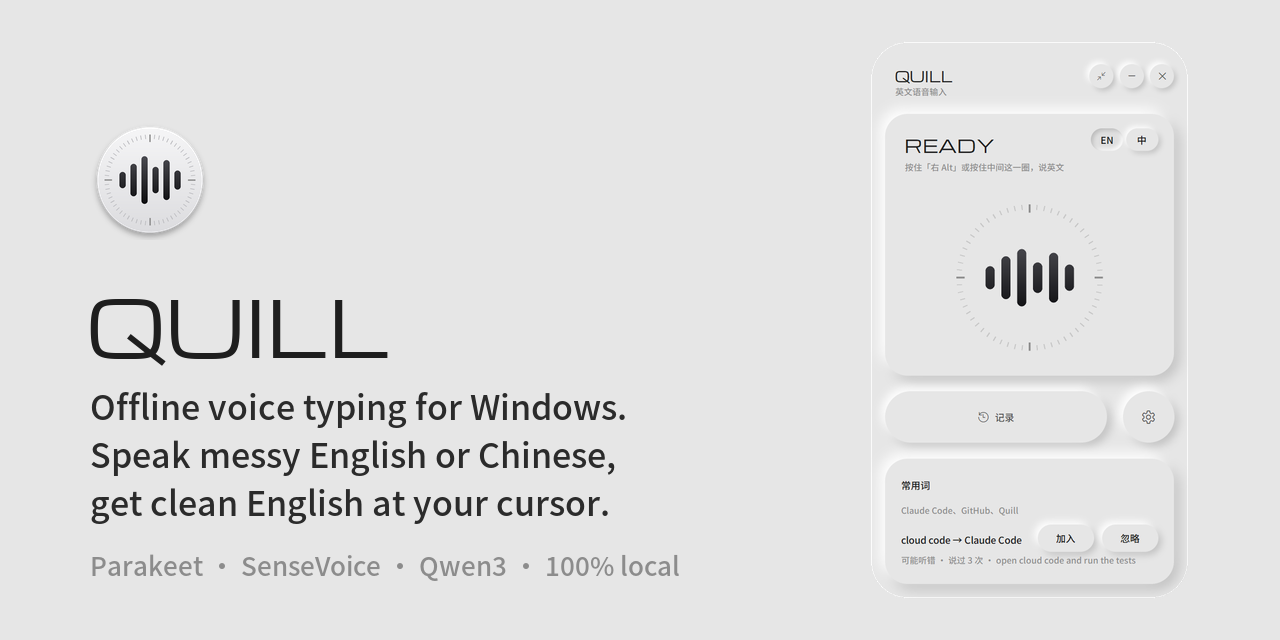
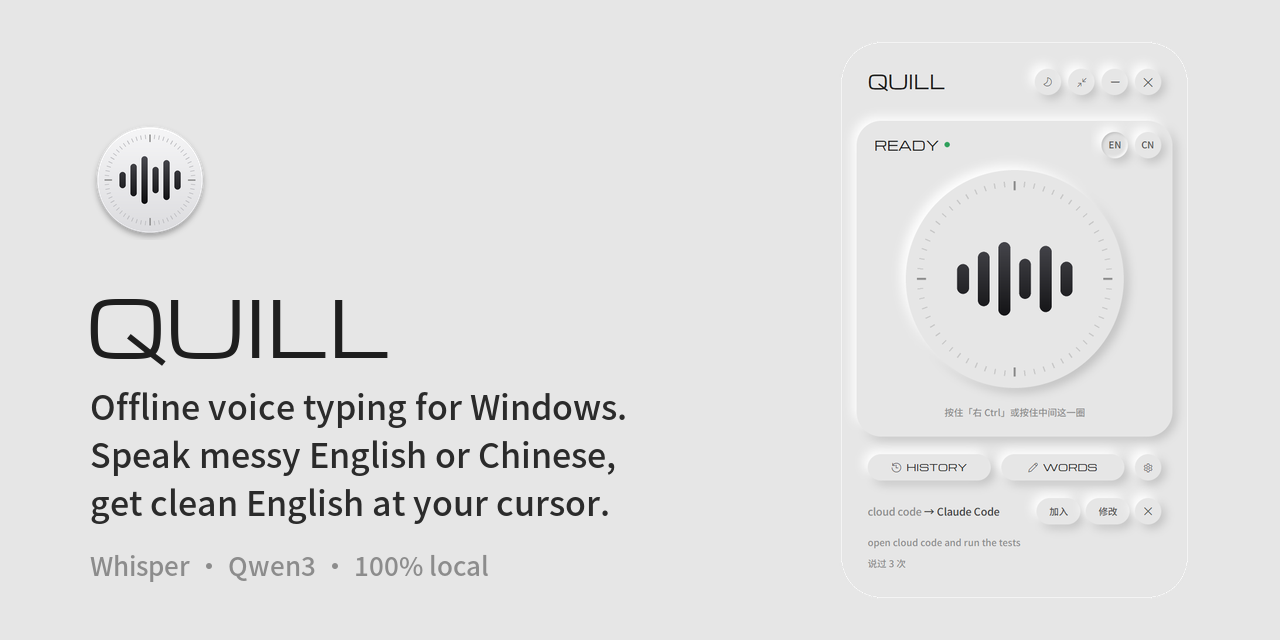
docs: regenerate screenshots and demo GIF (Right Ctrl, theme toggle, Whisper)

diff --git a/make_demo.py b/make_demo.py
@@ -1,6 +1,6 @@
 """生成 README 用的演示图：.venv\\Scripts\\python.exe make_demo.py
 用 Windows 语音合成说两句（英文结巴 + 中文改口），按实时速度喂给 Quill（不用麦克风、不真的粘贴、不写 history），
-每 0.1 秒记一帧真实的底部浮窗，拼上一个假的输入框和「按住右 Alt」提示 → docs/demo.gif；再截主窗口 → docs/main.png。
+每 0.1 秒记一帧真实的底部浮窗，拼上一个假的输入框和「按住右 Ctrl」提示 → docs/demo.gif；再截主窗口 → docs/main.png。
 要先关掉正在运行的 Quill（Stop-Process -Force -Id (Get-CimInstance Win32_Process -Filter "Name='pythonw.exe'" | ? CommandLine -match 'voice-input').ProcessId）。"""
 import ctypes, importlib.machinery, importlib.util, subprocess, sys, threading, time, wave
 import tkinter as tk
@@ -38,7 +38,7 @@ def ulw(h, img, x, y): orig(h, img, x, y); latest[0] = img.copy()
 m.ulw = ulw
 m.Overlay.grab_backdrop = lambda self, box: Image.new('RGBA', (box[2] - box[0], box[3] - box[1]), (238, 238, 240, 255))  # 玻璃后面用固定底色，不截真实屏幕
 audio = {lang: tts(lang, text, HERE / f'_demo_{lang}.wav') for lang, text in LINES}
-m.cfg.update(lang='en', hotkey=0xA5, zh_out='en')  # 演示用默认快捷键右 Alt
+m.cfg.update(lang='en', hotkey=0xA3, zh_out='en', theme='light')  # 演示用默认快捷键右 Ctrl；固定浅色，不跟系统
 app = m.App(root); root.deiconify()
 for t in (m.fix_worker, m.eng.load): threading.Thread(target=t, daemon=True).start()
 
@@ -89,7 +89,7 @@ def save_gif(out, path, r=28):
     gif[0].save(path, save_all=True, append_images=gif[1:], duration=100, loop=0, optimize=True, transparency=127)
 
 def build():
-    """拼 GIF：上面一个输入框（凸起卡片），中间「按住右 Alt」，下面是真实的底部浮窗。坐标按 100% 写，乘 S。"""
+    """拼 GIF：上面一个输入框（凸起卡片），中间「按住右 Ctrl」，下面是真实的底部浮窗。坐标按 100% 写，乘 S。"""
     ov = [f for f, *_ in frames if f is not None]
     oh = max(f.height for f in ov)
     W, top = 760, 262; H = top + oh / S + 8
@@ -108,7 +108,7 @@ def build():
             cy = (y - 28 if lines else 78) * S
             d.line((cx, cy + 3 * S, cx, cy + 22 * S), fill=m.INK, width=max(1, round(1.5 * S)))
         (m.inset if held else m.raised)(im, 40, 202, 130, 38, 19, d=4 if held else 5)
-        d.text((105 * S, 221 * S), 'Right Alt', font=fk, fill=m.INK if held else '#555555', anchor='mm')
+        d.text((105 * S, 221 * S), 'Right Ctrl', font=fk, fill=m.INK if held else '#555555', anchor='mm')
         d.text((186 * S, 221 * S), ('holding · speak ' + ('Chinese' if lang == 'zh' else 'English')) if held else 'hold to talk',
                font=fl, fill=m.SUB, anchor='lm')
         d.text((720 * S, 221 * S), 'input: ' + ('中文' if lang == 'zh' else 'English'), font=fl, fill=m.SUB, anchor='rm')

diff --git a/tools/make_social.py b/tools/make_social.py
@@ -12,7 +12,7 @@ small = ImageFont.truetype(str(HERE / 'fonts' / 'NotoSansSC-Medium.otf'), 26)
 d.text((86, 270), 'QUILL', font=title, fill=(30, 30, 30))
 for i, t in enumerate(['Offline voice typing for Windows.', 'Speak messy English or Chinese,', 'get clean English at your cursor.']):
     d.text((90, 380 + i * 48), t, font=body, fill=(43, 43, 43))
-d.text((90, 545), 'Parakeet · SenseVoice · Qwen3 · 100% local', font=small, fill=(140, 140, 140))
+d.text((90, 545), 'Whisper · Qwen3 · 100% local', font=small, fill=(140, 140, 140))
 shot = Image.open(HERE / 'docs' / 'main.png').convert('RGBA'); s = 560 / shot.height
 shot = shot.resize((round(shot.width * s), 560), Image.LANCZOS); im.alpha_composite(shot, (W - shot.width - 90, 40))
 im.convert('RGB').save(HERE / 'docs' / 'social.png'); print('docs/social.png', im.size)

diff --git a/make_words_demo.py b/make_words_demo.py
@@ -36,7 +36,7 @@ def ulw(h, img, x, y): orig(h, img, x, y); latest[0] = img.copy()
 m.ulw = ulw
 m.Overlay.grab_backdrop = lambda self, box: Image.new('RGBA', (box[2] - box[0], box[3] - box[1]), (238, 238, 240, 255))  # 玻璃后面用固定底色
 audio = tts('en', LINE, HERE / '_demo_words.wav')
-m.cfg.update(lang='en', hotkey=0xA5)
+m.cfg.update(lang='en', hotkey=0xA3, theme='light')
 app = m.App(root); root.deiconify()
 for t in (m.fix_worker, m.eng.load): threading.Thread(target=t, daemon=True).start()
 shot = [None]
